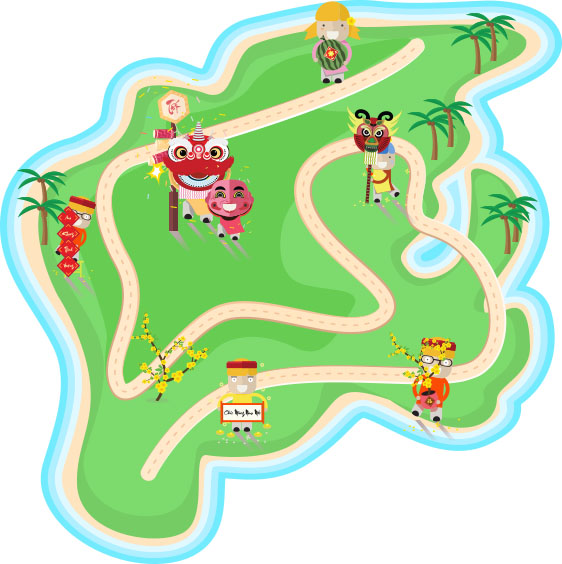
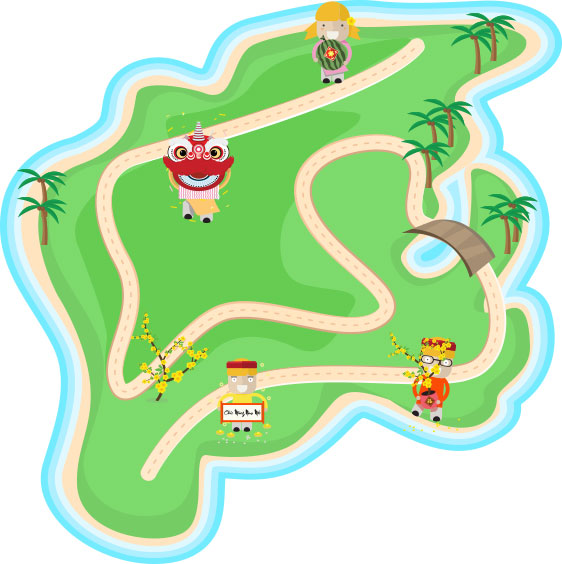
update background map list

diff --git a/client/css/components/_map-chosing.scss b/client/css/components/_map-chosing.scss
@@ -1,7 +1,7 @@
 .map-wrap{
-	//background-image: url(img/bg_chooser.png);
-	height: 42.86em;
-	width: 42.86em;
+	background-image: url(img/bg_chooser.jpg);
+	height: 562px;
+	max-width: 564px;
 	background-position: center;
 	background-size: contain;
 	background-repeat: no-repeat;
@@ -94,10 +94,6 @@
 @media (max-width: 1000px) {
 	.map-wrap {
 		width: 100%;
-		height: auto;
-	}
-	.map-list-bg {
-		margin-top: 20px;
 	}
 	.chose-round {
 

diff --git a/client/templates/MapsList.html b/client/templates/MapsList.html
@@ -1,6 +1,5 @@
 <template name="MapList">
 	<div class="map-wrap">
-		<img class="map-list-bg" src="/img/bg_chooser.jpg" alt="">
 		<a href="/{{lc}}/game/1" class="chose-round round-1"></a>
 		<a href="/{{lc}}/game/2" class="chose-round round-2"></a>
 		<a href="/{{lc}}/game/3" class="chose-round round-3"></a>
